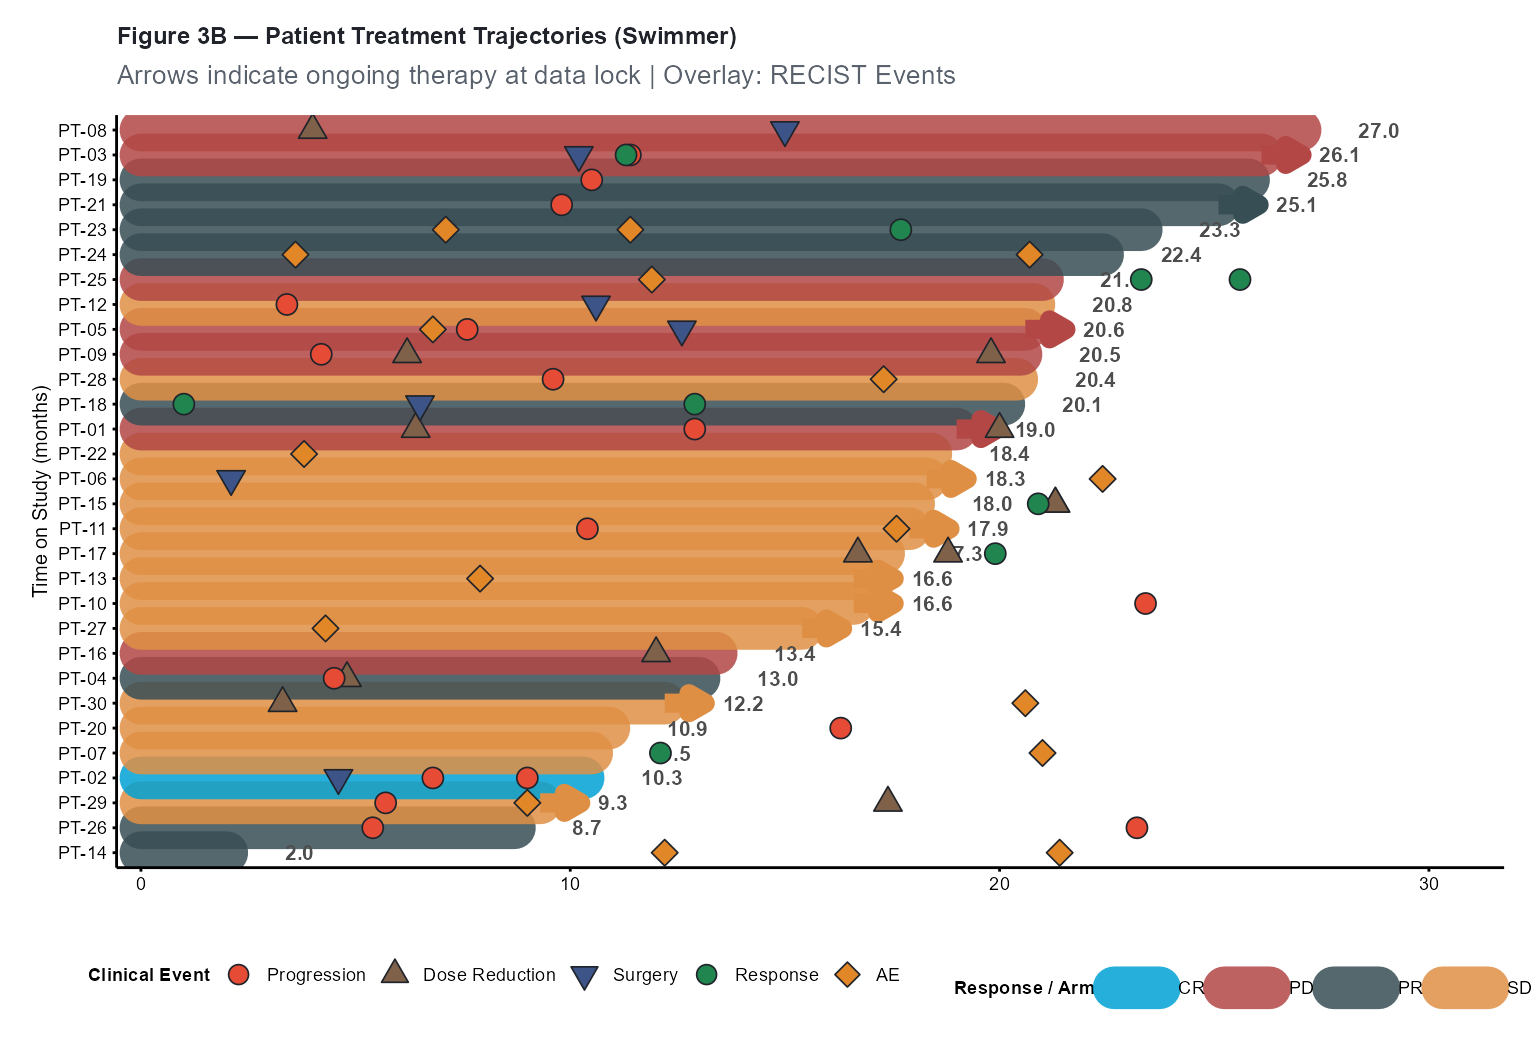
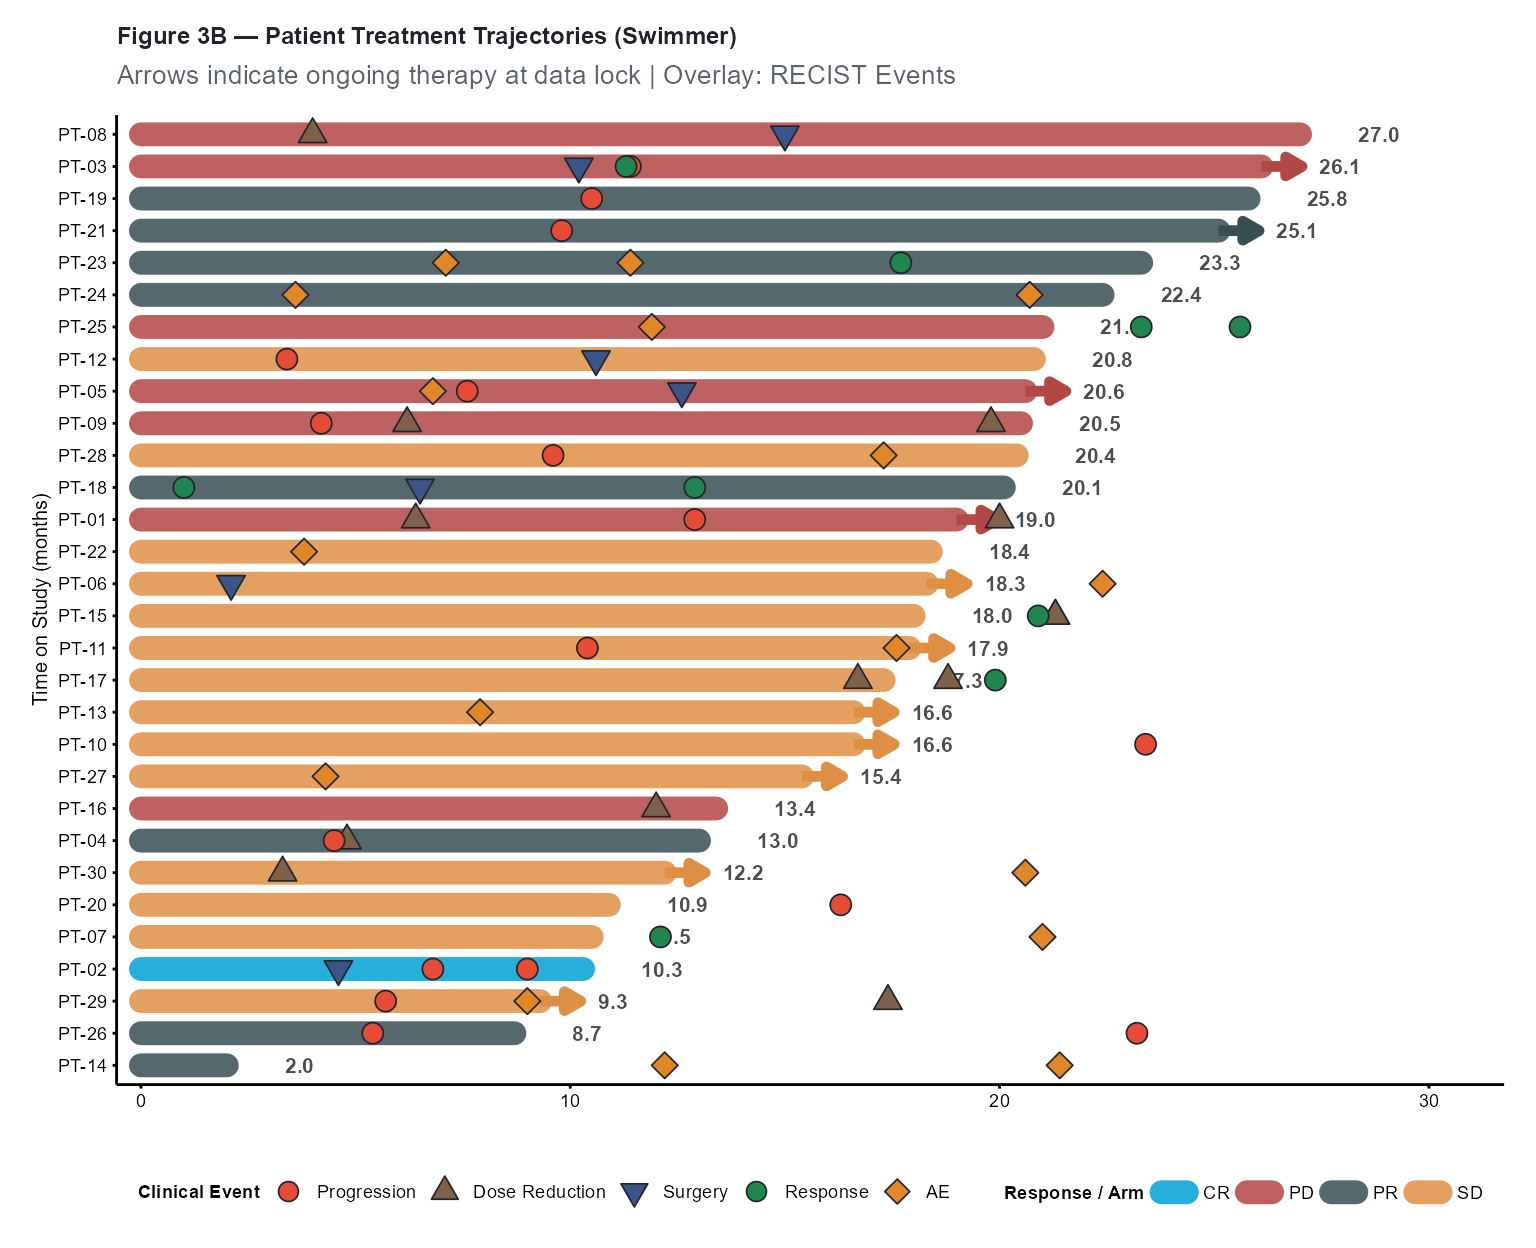
Adjust oncology Figure 8 swimmer bar thickness and canvas dimensions to eliminate bar overlap

diff --git a/docs/articles/oncology.html b/docs/articles/oncology.html
@@ -15,9 +15,8 @@
 <link href="../deps/bootstrap-5.3.8/bootstrap.min.css" rel="stylesheet">
 <script src="../deps/bootstrap-5.3.8/bootstrap.bundle.min.js"></script><link href="../deps/font-awesome-6.5.2/css/all.min.css" rel="stylesheet">
 <link href="../deps/font-awesome-6.5.2/css/v4-shims.min.css" rel="stylesheet">
-<script src="../deps/headroom-0.11.0/headroom.min.js"></script><script src="../deps/headroom-0.11.0/jQuery.headroom.min.js"></script><script src="../deps/bootstrap-toc-1.0.1/bootstrap-toc.min.js"></script><script src="../deps/clipboard.js-2.0.11/clipboard.min.js"></script><script src="../deps/search-1.0.0/autocomplete.jquery.min.js"></script><script src="../deps/search-1.0.0/fuse.min.js"></script><script src="../deps/search-1.0.0/mark.min.js"></script><!-- pkgdown --><script src="../pkgdown.js"></script><meta property="og:title" content="End-to-End Oncology Analysis with cliomicplot">
-  <link href="../extra.css" rel="stylesheet">
-  <script src="../extra.js"></script>
+<script src="../deps/headroom-0.11.0/headroom.min.js"></script><script src="../deps/headroom-0.11.0/jQuery.headroom.min.js"></script><script src="../deps/bootstrap-toc-1.0.1/bootstrap-toc.min.js"></script><script src="../deps/clipboard.js-2.0.11/clipboard.min.js"></script><script src="../deps/search-1.0.0/autocomplete.jquery.min.js"></script><script src="../deps/search-1.0.0/fuse.min.js"></script><script src="../deps/search-1.0.0/mark.min.js"></script><!-- pkgdown --><script src="../pkgdown.js"></script><link href="../extra.css" rel="stylesheet">
+<script src="../extra.js"></script><meta property="og:title" content="End-to-End Oncology Analysis with cliomicplot">
 </head>
 <body>
     <a href="#main" class="visually-hidden-focusable">Skip to contents</a>
@@ -62,7 +61,7 @@
                         <h4 data-toc-skip class="author">Lucas VHH
 Tran</h4>
             
-            <h4 data-toc-skip class="date">2026-10-31</h4>
+            <h4 data-toc-skip class="date">2026-11-20</h4>
       
       <small class="dont-index">Source: <a href="https://github.com/vanhungtran/cliomicplot/blob/HEAD/vignettes/oncology.Rmd" class="external-link"><code>vignettes/oncology.Rmd</code></a></small>
       <div class="d-none name"><code>oncology.Rmd</code></div>
@@ -125,6 +124,7 @@ pipeline</li>
 <code class="sourceCode R"><span><span class="kw"><a href="https://rdrr.io/r/base/library.html" class="external-link">library</a></span><span class="op">(</span><span class="va"><a href="https://github.com/vanhungtran/cliomicplot" class="external-link">cliomicplot</a></span><span class="op">)</span></span>
 <span><span class="kw"><a href="https://rdrr.io/r/base/library.html" class="external-link">library</a></span><span class="op">(</span><span class="va"><a href="https://github.com/therneau/survival" class="external-link">survival</a></span><span class="op">)</span></span>
 <span><span class="kw"><a href="https://rdrr.io/r/base/library.html" class="external-link">library</a></span><span class="op">(</span><span class="va"><a href="https://patchwork.data-imaginist.com" class="external-link">patchwork</a></span><span class="op">)</span></span>
+<span><span class="kw"><a href="https://rdrr.io/r/base/library.html" class="external-link">library</a></span><span class="op">(</span><span class="va"><a href="https://ggplot2.tidyverse.org" class="external-link">ggplot2</a></span><span class="op">)</span></span>
 <span></span>
 <span><span class="co"># Set global defaults for publication styling</span></span>
 <span><span class="fu"><a href="../reference/clipar.html">clipar</a></span><span class="op">(</span></span>
@@ -319,7 +319,8 @@ with RECIST glyphs:</p>
 <span>          ongoing       <span class="op">=</span> <span class="st">"Ongoing"</span>,</span>
 <span>          event_times   <span class="op">=</span> <span class="va">events_df</span>,</span>
 <span>          show_duration <span class="op">=</span> <span class="cn">TRUE</span>,</span>
-<span>          bar_alpha     <span class="op">=</span> <span class="fl">0.85</span></span>
+<span>          bar_alpha     <span class="op">=</span> <span class="fl">0.85</span>,</span>
+<span>          bar_linewidth <span class="op">=</span> <span class="fl">4.2</span></span>
 <span>        <span class="op">)</span>,</span>
 <span>        bar_palette <span class="op">=</span> <span class="st">"jama"</span>,</span>
 <span>        title   <span class="op">=</span> <span class="st">"**Figure 3B** — Patient Treatment Trajectories (Swimmer)"</span>,</span>
@@ -327,6 +328,7 @@ with RECIST glyphs:</p>
 <span>        xlab    <span class="op">=</span> <span class="st">""</span>,</span>
 <span>        ylab    <span class="op">=</span> <span class="st">"Time on Study (months)"</span>,</span>
 <span>        legend  <span class="op">=</span> <span class="st">"bottom"</span><span class="op">)</span> <span class="op">+</span></span>
+<span>  <span class="fu"><a href="https://ggplot2.tidyverse.org/reference/theme.html" class="external-link">theme</a></span><span class="op">(</span>axis.text.y <span class="op">=</span> <span class="fu"><a href="https://ggplot2.tidyverse.org/reference/element.html" class="external-link">element_text</a></span><span class="op">(</span>size <span class="op">=</span> <span class="fl">7</span><span class="op">)</span><span class="op">)</span> <span class="op">+</span></span>
 <span>  <span class="fu"><a href="../reference/cli_markdown.html">cli_markdown</a></span><span class="op">(</span><span class="op">)</span></span></code></pre></div>
 <p><img src="oncology_files/figure-html/fig3b-swimmer-1.png" class="r-plt" alt="" width="768" style="display: block; margin: auto;"></p>
 <hr>
@@ -560,29 +562,31 @@ bold panel labels (<strong>a</strong>, <strong>b</strong> or
 <strong>A</strong>, <strong>B</strong>) and synchronized typography:</p>
 <div class="sourceCode" id="cb13"><pre class="downlit sourceCode r">
 <code class="sourceCode R"><span><span class="va">p_waterfall</span> <span class="op">&lt;-</span> <span class="fu"><a href="../reference/cliplot.html">cliplot</a></span><span class="op">(</span><span class="va">BestChange</span> <span class="op">~</span> <span class="va">Patient</span>, data <span class="op">=</span> <span class="va">imtrial</span>,</span>
-<span>                       type <span class="op">=</span> <span class="fu"><a href="../reference/type_waterfall.html">type_waterfall</a></span><span class="op">(</span>show_labels <span class="op">=</span> <span class="cn">FALSE</span>, bar_width <span class="op">=</span> <span class="fl">0.7</span><span class="op">)</span>,</span>
+<span>                       type <span class="op">=</span> <span class="fu"><a href="../reference/type_waterfall.html">type_waterfall</a></span><span class="op">(</span>show_labels <span class="op">=</span> <span class="cn">FALSE</span>, bar_width <span class="op">=</span> <span class="fl">0.65</span><span class="op">)</span>,</span>
 <span>                       theme <span class="op">=</span> <span class="st">"cell"</span>,</span>
 <span>                       title <span class="op">=</span> <span class="st">"Best Tumor Response"</span><span class="op">)</span> <span class="op">+</span></span>
 <span>  <span class="fu"><a href="../reference/cli_panel_label.html">cli_panel_label</a></span><span class="op">(</span><span class="st">"a"</span><span class="op">)</span></span>
 <span></span>
 <span><span class="va">p_swimmer</span> <span class="op">&lt;-</span> <span class="fu"><a href="../reference/cliplot.html">cliplot</a></span><span class="op">(</span><span class="va">Duration</span> <span class="op">~</span> <span class="va">Patient</span>, data <span class="op">=</span> <span class="va">imtrial</span>,</span>
 <span>                     type <span class="op">=</span> <span class="fu"><a href="../reference/type_swimmer.html">type_swimmer</a></span><span class="op">(</span></span>
-<span>                       bar_fill    <span class="op">=</span> <span class="st">"BestResp"</span>,</span>
-<span>                       ongoing     <span class="op">=</span> <span class="st">"Ongoing"</span>,</span>
-<span>                       event_times <span class="op">=</span> <span class="va">events_df</span></span>
+<span>                       bar_fill      <span class="op">=</span> <span class="st">"BestResp"</span>,</span>
+<span>                       ongoing       <span class="op">=</span> <span class="st">"Ongoing"</span>,</span>
+<span>                       event_times   <span class="op">=</span> <span class="va">events_df</span>,</span>
+<span>                       bar_linewidth <span class="op">=</span> <span class="fl">3.6</span></span>
 <span>                     <span class="op">)</span>,</span>
 <span>                     theme <span class="op">=</span> <span class="st">"cell"</span>, bar_palette <span class="op">=</span> <span class="st">"jama"</span>,</span>
 <span>                     title <span class="op">=</span> <span class="st">"Treatment Duration &amp; Events"</span><span class="op">)</span> <span class="op">+</span></span>
+<span>  <span class="fu"><a href="https://ggplot2.tidyverse.org/reference/theme.html" class="external-link">theme</a></span><span class="op">(</span>axis.text.y <span class="op">=</span> <span class="fu"><a href="https://ggplot2.tidyverse.org/reference/element.html" class="external-link">element_text</a></span><span class="op">(</span>size <span class="op">=</span> <span class="fl">6.5</span><span class="op">)</span><span class="op">)</span> <span class="op">+</span></span>
 <span>  <span class="fu"><a href="../reference/cli_panel_label.html">cli_panel_label</a></span><span class="op">(</span><span class="st">"b"</span><span class="op">)</span></span>
 <span></span>
 <span><span class="va">p_waterfall</span> <span class="op">+</span> <span class="va">p_swimmer</span> <span class="op">+</span></span>
-<span>  <span class="fu"><a href="https://patchwork.data-imaginist.com/reference/plot_layout.html" class="external-link">plot_layout</a></span><span class="op">(</span>widths <span class="op">=</span> <span class="fu"><a href="https://rdrr.io/r/base/c.html" class="external-link">c</a></span><span class="op">(</span><span class="fl">1</span>, <span class="fl">1.2</span><span class="op">)</span><span class="op">)</span> <span class="op">+</span></span>
+<span>  <span class="fu"><a href="https://patchwork.data-imaginist.com/reference/plot_layout.html" class="external-link">plot_layout</a></span><span class="op">(</span>widths <span class="op">=</span> <span class="fu"><a href="https://rdrr.io/r/base/c.html" class="external-link">c</a></span><span class="op">(</span><span class="fl">1</span>, <span class="fl">1.25</span><span class="op">)</span><span class="op">)</span> <span class="op">+</span></span>
 <span>  <span class="fu"><a href="https://patchwork.data-imaginist.com/reference/plot_annotation.html" class="external-link">plot_annotation</a></span><span class="op">(</span></span>
 <span>    title   <span class="op">=</span> <span class="st">"**Figure 8** — RECIST Response Assessment in Phase II Immunotherapy"</span>,</span>
-<span>    caption <span class="op">=</span> <span class="st">"Simulated trial data: 30 evaluable patients"</span>,</span>
+<span>    caption <span class="op">=</span> <span class="st">"Simulated trial data: 30 evaluable patients | Arrows indicate ongoing therapy at data lock"</span>,</span>
 <span>    theme   <span class="op">=</span> <span class="fu">ggplot2</span><span class="fu">::</span><span class="fu"><a href="https://ggplot2.tidyverse.org/reference/theme.html" class="external-link">theme</a></span><span class="op">(</span>plot.title <span class="op">=</span> <span class="fu">ggtext</span><span class="fu">::</span><span class="fu"><a href="https://wilkelab.org/ggtext/reference/element_markdown.html" class="external-link">element_markdown</a></span><span class="op">(</span>face <span class="op">=</span> <span class="st">"bold"</span>, size <span class="op">=</span> <span class="fl">13</span><span class="op">)</span><span class="op">)</span></span>
 <span>  <span class="op">)</span></span></code></pre></div>
-<p><img src="oncology_files/figure-html/fig8-composite-1.png" class="r-plt" alt="" width="912" style="display: block; margin: auto;"></p>
+<p><img src="oncology_files/figure-html/fig8-composite-1.png" class="r-plt" alt="" width="940.8" style="display: block; margin: auto;"></p>
 <hr>
 </div>
 <div class="section level2">
